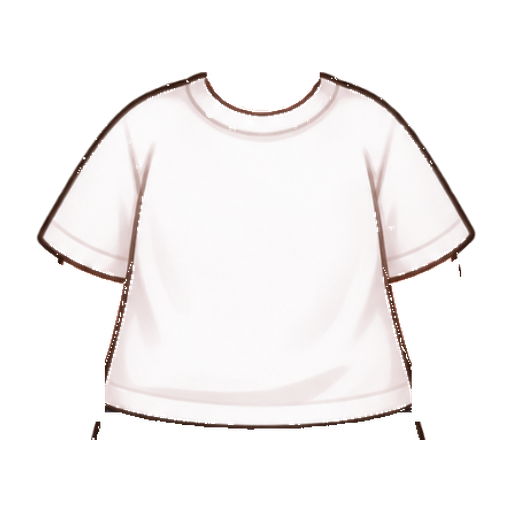
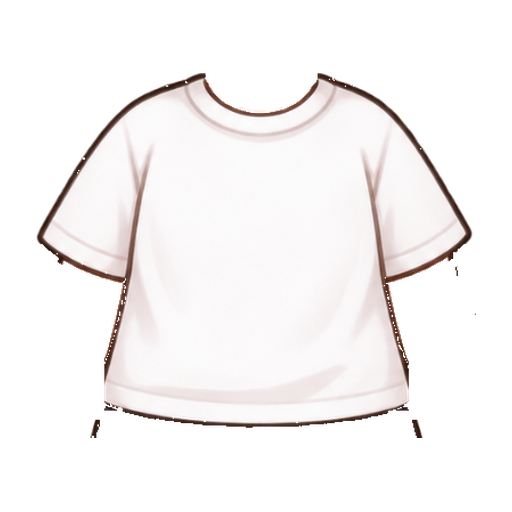
fix: 밑단과 허리 사이 투명 구멍을 막고 팔 가장자리를 승인 텍스처와 같게 한다 [S15P31A207-300]
- 실기기 3차 재확인 회귀: 맨몸 팔·몸통 사이 부스러기를 밑단 높이까지 지워 상의 자르기가 허리 밴드를 테두리로 보고 지웠다
- 서기 상의 자르기 칸에서 허리 밴드(x 100~411, y 296~321, 속옷 허리선)를 뺀다, 부스러기 지우기는 y 280 위에서만
- 맨몸 서기 팔: 반투명 가장자리(알파 240 미만)·승인 피부·소매 아래 팔 안쪽 외곽선은 승인 픽셀 그대로
- 기본 의상 빈칸 채우기: 상의 칸은 맨살 규칙으로만 피부를 빼고 한 점 구멍도 채운다(make_body·produce 변경을 이번에 함께 반영)
- 시험: 기본 의상 서기 몸 실루엣 투명 0, 짧은 상의 3 × 하의 7 × 남녀 허리 밴드 투명 0, 기본 의상 팔 가장자리 승인 대비 차이 0
- [임시:D-성-175]

diff --git a/android/core/avatar/src/test/kotlin/com/a207/runkk/app/core/avatar/OutfitCompositeTest.kt b/android/core/avatar/src/test/kotlin/com/a207/runkk/app/core/avatar/OutfitCompositeTest.kt
@@ -283,6 +283,109 @@ class OutfitCompositeTest {
     }
 
     /** 기본 의상 러닝량 0 합성이 승인 기본 텍스처(서기 PNG, 달리기는 riv 내장)와 같은 픽셀(러닝량과 무관하게 같은 자리). */
+    @Test
+    fun `기본 의상 서기 합성은 승인 기본 텍스처의 몸 실루엣 안(팔·몸통, 소매 아래)에 투명 구멍이 없다`() {
+        val approved = pixels(approvedBytes(OutfitSlot.STAND))
+        val width = OutfitSlot.STAND.width
+        val found = mutableListOf<String>()
+        AvatarGender.entries.forEach { gender ->
+            val visible = uvMask(OutfitSlot.STAND, gender, AvatarOutfit())
+            val composed = compose(OutfitSlot.STAND, gender, AvatarOutfit(), 100)
+            // 소매 아래(y 185)부터 손 위(y 300)까지: 팔 띠·몸통 옆·허리 위. 소매 끝 모서리(y 185 위)와 목은 상의 자르기·머리가 정한다.
+            for (y in 185..300) {
+                for (x in 0 until width) {
+                    val i = y * width + x
+                    if (visible[i] && approved[i] ushr 24 >= 250 &&
+                        composed.getPixel(x, y) ushr 24 < 128
+                    ) {
+                        found += "$gender ($x, $y)"
+                    }
+                }
+            }
+            composed.recycle()
+        }
+        assertEquals(emptyList(), found.take(10), "몸 실루엣 안 투명 픽셀 ${found.size}")
+    }
+
+    @Test
+    fun `짧은 상의 × 모든 하의 서기 합성에서 밑단과 허리 사이 몸통에 투명 구멍이 없다`() {
+        val approved = pixels(approvedBytes(OutfitSlot.STAND))
+        val found = mutableListOf<String>()
+        // 짧은 상의(반팔·민소매): 기본, 라임 싱글렛, 크루 티
+        listOf(0, 1, 2).forEach { top ->
+            OutfitCatalog.LEGACY_KEYS.getValue(OutfitPart.BOTTOM).indices.forEach { bottom ->
+                AvatarGender.entries.forEach { gender ->
+                    val outfit = AvatarOutfit(top = top, bottom = bottom)
+                    val composed = compose(OutfitSlot.STAND, gender, outfit, 100)
+                    val width = OutfitSlot.STAND.width
+                    var holes = 0
+                    // 몸통 열(x 128~383)의 허리 밴드(y 296~321, 상의 밑단과 하의 허리 사이), 승인 기본 텍스처가 불투명한 곳
+                    for (y in 296..321) {
+                        for (x in 128..383) {
+                            if (approved[y * width + x] ushr 24 >= 250 && composed.getPixel(x, y) ushr 24 < 128) holes++
+                        }
+                    }
+                    composed.recycle()
+                    if (holes > 0) found += "top $top bottom $bottom $gender: $holes"
+                }
+            }
+        }
+        assertEquals(emptyList(), found, "밑단과 허리 사이 투명 픽셀")
+    }
+
+    @Test
+    fun `기본 의상 러닝량 0 서기 합성의 팔 가장자리는 승인 기본 텍스처와 알파·색이 같다`() {
+        val approved = pixels(approvedBytes(OutfitSlot.STAND))
+        val composed = compose(OutfitSlot.STAND, AvatarGender.FEMALE, AvatarOutfit(), 0)
+        val width = OutfitSlot.STAND.width
+        val opaque = BooleanArray(approved.size) { approved[it] ushr 24 >= 128 }
+        var edge = 0
+        val differs = mutableListOf<String>()
+        // 팔 띠(소매 밑 y 190~300, 바깥 열 x < 140·x > 372)에서 승인 실루엣 경계 2px 안
+        for (y in 190..300) {
+            for (x in (0 until 140) + (373 until width)) {
+                val i = y * width + x
+                val near = (-2..2).any { dy ->
+                    (-2..2).any { dx ->
+                        opaque[
+                            (y + dy) * width +
+                                (x + dx).coerceIn(0, width - 1)
+                        ] !=
+                            opaque[i]
+                    }
+                }
+                if (!near) continue
+                edge++
+                val a = approved[i]
+                val c = composed.getPixel(x, y)
+                val alpha = abs((a ushr 24) - (c ushr 24))
+                val color = if (a ushr 24 >=
+                    128
+                ) {
+                    listOf(16, 8, 0).sumOf { abs((a shr it and 0xFF) - (c shr it and 0xFF)) }
+                } else {
+                    0
+                }
+                if (alpha > 24 || color > 30) differs += "($x, $y)"
+            }
+        }
+        composed.recycle()
+        assertTrue(edge > 300, "검사한 가장자리 $edge")
+        assertEquals(emptyList(), differs.take(10), "팔 가장자리 차이 ${differs.size}/$edge")
+    }
+
+    private fun approvedBytes(slot: OutfitSlot): ByteArray = if (slot == OutfitSlot.STAND) {
+        File("src/main/res/raw/avatar_legacy_standing_body.png").readBytes()
+    } else {
+        val asset = mapOf(
+            OutfitSlot.RUN_BODY to "side_body_coral",
+            OutfitSlot.RUN_ARM to "continuous_arm",
+            OutfitSlot.RUN_LEG to "side_leg_skin",
+            OutfitSlot.RUN_SHOE to "side_shoe"
+        ).getValue(slot)
+        RivEmbeddedImages.read(File("src/main/res/raw/avatar_run_approved.riv").readBytes()).getValue(asset)
+    }
+
     private fun approvedMask(slot: OutfitSlot, gender: AvatarGender): BooleanArray {
         val bytes = if (slot == OutfitSlot.STAND) {
             File("src/main/res/raw/avatar_legacy_standing_body.png").readBytes()

diff --git a/android/core/avatar/tools/outfit-pipeline/production/make_body.py b/android/core/avatar/tools/outfit-pipeline/production/make_body.py
@@ -79,25 +79,26 @@ def stand(work: Path) -> Image.Image:
     shoulder_rows = (yy >= 150) & (yy < 185) & (((xx >= 140) & (xx < 165)) | ((xx > 347) & (xx <= 372)))
     armpit = (side_rows | shoulder_rows) & tee
     g[gap | armpit] = 0
-    # 팔 칸에서 승인 텍스처가 거의 투명한 곳(팔 외곽선 바깥 안티에일리어싱)은 승인 픽셀 그대로 둔다: 그림 도구 맨몸의 팔 외곽선이 그 자리에
+    # 팔 칸에서 승인 텍스처가 반투명·투명한 곳(팔 외곽선 안티에일리어싱, 알파 240 미만)은 승인 픽셀 그대로 둔다: 그림 도구 맨몸의 팔 외곽선이 그 자리에
     # 부스러기로 남아 러닝량이 높을 때 팔 윤곽이 털처럼 거칠게 보였다(실기기 3차 DV3-8).
-    halo = (yy >= 150) & (yy < 425) & ((xx < 165) | (xx > 347)) & (r[..., 3] < 128)
+    # 손 높이(y 304)부터는 하지 않는다: 팔과 엉덩이 사이를 비우면 상의 자르기가 허리 옆 맨몸을 테두리로 보고 지워 밑단과 허리 사이가
+    # 비었다(실기기 3차 재확인)
+    halo = (yy >= 150) & (yy < 304) & ((xx < 165) | (xx > 347)) & (r[..., 3] < 240)
     g[halo] = r[halo]
-    # 소매 밑 겨드랑이 쪽 팔 안쪽 피부(승인 텍스처에서 흰 반팔티 소매와 몸통 사이에 보이던 곳)도 맨몸에 둔다. 상의 레이어에서는
-    # 맨살을 지우므로(outfit_pipeline.skin) 맨몸이 그 자리를 덮어야 톤이 걸린다.
-    inner = (
-        (yy >= 150)
-        & (yy < 304)
-        & (((xx >= 112) & (xx < 165)) | ((xx > 347) & (xx < 400)))
-        & skin_mask(r)
-        & (r[..., 3] >= 128)
-    )
+    # 팔 칸의 승인 피부(소매 밑 겨드랑이 쪽 팔 안쪽, 흰 반팔티 소매와 몸통 사이에 보이던 곳 포함)는 맨몸에 승인 픽셀 그대로 둔다.
+    # 옷 레이어에서는 맨살을 지우므로(outfit_pipeline.skin) 맨몸이 그 자리를 덮어야 톤이 걸린다.
+    # 팔 안쪽 외곽선(짙은 선)도 승인 픽셀로 둔다: 없으면 팔과 셔츠 사이가 점점이 비었다(실기기 3차 재확인)
+    outline = rgb.max(axis=2) < 120
+    inner = (yy >= 150) & (yy < 304) & ((xx < 165) | (xx > 347)) & (r[..., 3] >= 128) & ~tee & ~shorts
+    # 외곽선은 소매 높이(y 185) 아래만: 그 위 짙은 선은 소매 밑단 선이라 기본 상의 레이어가 그린다(민소매 팔에 선이 남지 않게)
+    inner &= skin_mask(r) | (outline & (yy >= 185))
     g[inner] = r[inner]
-    # 팔과 몸통 사이 띠에 남은 그림 도구의 외곽선·속옷 조각(피부가 아닌 픽셀)도 지운다
-    band = (yy >= 185) & (yy < 304) & (((xx >= 140) & (xx < 165)) | ((xx > 347) & (xx <= 372)))
+    # 팔과 몸통 사이 띠에 남은 그림 도구의 외곽선·속옷 조각(피부가 아닌 픽셀)도 지운다. 밑단 높이(y 280)부터는 두어야 한다: 비우면
+    # 상의 자르기가 허리 밴드를 밑단과 배경 사이 테두리로 보고 지워 밑단과 허리 사이가 비었다(실기기 3차 재확인)
+    band = (yy >= 185) & (yy < 280) & (((xx >= 140) & (xx < 165)) | ((xx > 347) & (xx <= 372)))
     g[band & ~inner & ~skin_mask(g.clip(0, 255).astype(np.uint8))] = 0
     # 팔과 몸통 사이(겨드랑이~허리 옆)에 떨어져 남은 작은 조각도 지운다(맨몸 본체는 한 덩어리다)
-    side = (yy >= 185) & (yy < 304) & (((xx >= 100) & (xx < 165)) | ((xx > 347) & (xx < 412)))
+    side = (yy >= 185) & (yy < 280) & (((xx >= 100) & (xx < 165)) | ((xx > 347) & (xx < 412)))
     alone = (g[..., 3] > 0) & ~drop_specks(g[..., 3] > 0)
     g[side & alone] = 0
     # 허리(y 296~321, 몸통 열): 승인 텍스처의 짙은 회색 허리 밴드를 맨몸 속옷 허리로 둔다. 상의 밑단과 하의 허리 사이가 비어도

diff --git a/android/core/avatar/tools/outfit-pipeline/production/produce.py b/android/core/avatar/tools/outfit-pipeline/production/produce.py
@@ -172,18 +172,17 @@ def fill_base_gaps(work: Path) -> None:
         covered |= array[..., 3] > 0
     differs = np.abs(body_stand[..., :3].astype(int) - ref[..., :3].astype(int)).sum(axis=2) > 12
     gap = (ref[..., 3] > 0) & ~covered & (differs | (body_stand[..., 3] == 0))
-    # 하의 칸의 승인 피부(허벅지)는 옷 레이어에 넣지 않는다(넣으면 러닝량 톤을 받지 않는 밝은 띠가 된다, DV-성-11).
-    # 상의 칸의 피부색 픽셀은 흰 반팔티 소매 안 분홍 그늘이라 옷이다.
+    # 승인 피부는 옷 레이어에 넣지 않는다(넣으면 러닝량 톤을 받지 않는 밝은 피부가 된다: 하의 칸 허벅지 DV-성-11, 상의 칸 소매 밑
+    # 팔 안쪽 DV3-8). 그 피부는 맨몸 바탕이 승인 픽셀로 그린다(make_body). 피부가 아닌 승인 픽셀(소매 밑단 선, 몸통 옆 외곽선)은
+    # 팔 칸이어도 넣는다: 빠지면 기본 의상에서 소매 밑단·옷 옆에 구멍(배경)이 점점이 비쳤다(실기기 3차 재확인).
     from outfit_pipeline.build import _skin_like
+    from outfit_pipeline.skin import skin_mask
 
-    gap &= ~(_skin_like(ref[..., :3]) & (np.array(zones["TOP"]) == 0))
-    yy, xx = np.mgrid[0 : ref.shape[0], 0 : ref.shape[1]]
-    gap &= ~(
-        (yy >= 185) & ((xx < 112) | (xx >= 404))
-    )  # 팔(소매 끝 아래, 밑단 폭 밖)은 맨몸 바탕이 승인 그림이라 채우지 않는다
+    # 상의 칸은 맨살 규칙(skin_mask)으로만 뺀다: 넓은 피부색 판정(_skin_like)은 흰 반팔티의 분홍 회색 그늘도 피부로 봐서 빠지면 구멍이 났다
+    gap &= ~((_skin_like(ref[..., :3]) & (np.array(zones["TOP"]) == 0)) | skin_mask(ref))
     for part, array in arrays.items():
         allowed = np.array(load_mask(MASKS, "female_stand", part)) > 0
-        take = drop_specks(gap & (np.array(zones[part]) > 0) & allowed, 6)  # 떨어진 한두 점은 넣지 않는다
+        take = gap & (np.array(zones[part]) > 0) & allowed  # 한 점짜리 구멍도 채운다
         array[take] = ref[take]
         gap &= ~take
         for gender in spec.GENDERS:

diff --git a/android/core/avatar/tools/outfit-pipeline/outfit_pipeline/build.py b/android/core/avatar/tools/outfit-pipeline/outfit_pipeline/build.py
@@ -352,7 +352,7 @@ def _write_bundle(source: Path, target: Path, masks_dir: Path, asset_key: str, p
 
 
 def cut_area(raw_dir: Path, slot_name: str) -> Image.Image:
-    """상의 자르기 칸([임시:D-성-156], 값 = 띠 종류): 서기는 상의 칸에서 손 칸과 목·가슴 위를 뺀 곳(팔 띠 둘은 따로 값), 달리기 몸통은 목
+    """상의 자르기 칸([임시:D-성-156], 값 = 띠 종류): 서기는 상의 칸에서 손 칸과 목·가슴 위, 허리 밴드를 뺀 곳(팔 띠 둘은 따로 값), 달리기 몸통은 목
     조각을 뺀 전체, 달리기 팔은 전체(소매 끝 아래는 팔 띠)."""
     from outfit_pipeline.masks import stand_zones
 
@@ -362,6 +362,7 @@ def cut_area(raw_dir: Path, slot_name: str) -> Image.Image:
         area = ImageChops.subtract(zones["TOP"], zones["HANDS"])
         area.paste(0, spec.NECK_CHEST)
         area.paste(0, spec.NECK_TOP)
+        area.paste(0, spec.STAND_WAIST)
         array = np.array(area)
         for box, value in ((spec.STAND_LEFT_ARM, spec.CUT_LEFT_ARM), (spec.STAND_RIGHT_ARM, spec.CUT_RIGHT_ARM)):
             x0, y0, x1, y1 = box

diff --git a/android/core/avatar/OUTFIT_SPEC.md b/android/core/avatar/OUTFIT_SPEC.md
@@ -44,7 +44,7 @@ riv 네 파일(`res/raw`, 승인본 SHA 고정, 읽기만)의 아트보드는 80
 | 그 부위만 | 상의 파일에 하의·신발 픽셀 없음(금지 영역은 템플릿의 빨간 빗금) |
 | 피부 | 의상 그림에 피부를 그리지 않는다. 민소매 어깨·반바지 다리는 알파 0으로 두어 맨몸 바탕이 보이게 한다. 피부톤 필터는 맨몸 바탕에만 걸린다 |
 | 겹침 순서 | 맨몸 바탕(피부톤) → 신발 → 하의 → 상의 |
-| 상의 자르기 ([임시:D-성-156]) | 앱이 합성할 때 상의 자르기 칸 안에서 상의 밖(옷으로 둘러싸인 빈 곳은 옷으로 친다)인 맨몸 픽셀 가운데 상의와 배경(맨몸도 상의도 없는 곳) 사이에 낀 얇은 띠를 지운다: 가장 가까운 상의·배경까지 거리 합 ≤ 32px(`RIM_PX` 30 + 2, 텍스처 가장자리 너머도 배경)이고 두 방향이 반대(코사인 < −0.5). 그래서 맨몸 실루엣보다 좁은 상의(실측 최대 약 25px, 후드티 어깨 곡선)도 어깨·몸통·소매 옆 피부 테두리가 옷 밖으로 비치지 않는다. 소매 끝 아래 팔(상의는 위, 배경은 옆)·민소매 팔·목·손은 남는다. 칸: 서기 = 상의 칸 − 손 칸 − 목·가슴 위(x 196~316, y 0~109)·맨 위 목 둘레(x 176~336, y 0~13), 달리기 몸통 = 전체 − 목 조각(x 100~199, y 0~39, 알파 240: 띠 판정 없이 상의 밖을 모두 지운다. 옆모습 몸통은 맨몸이 보일 곳이 없다), 달리기 팔 = 전체. 팔 띠(서기 x 0~144·367~511의 y 185~301, 허리 옆 모서리는 몸통 칸, 달리기 팔의 y 300 아래)는 상의가 그 띠의 맨몸을 60% 넘게 덮을 때(긴소매)만 자른다(반팔·민소매의 팔은 몸통에 붙어 있어도 그대로). 띠를 지운 뒤 남은 부스러기(자르기 칸 안 상의 밖 맨몸을 4방향으로 이은 덩어리 80px 이하, 모든 픽셀이 상의에서 30px 안)도 지운다. 칸 파일 알파(값마다 뜻이 다르다): 128 미만 = 자르지 않음, 255 = 몸통(띠 판정), 200 = 왼팔 띠·160 = 오른팔 띠(값마다 한 띠, 덮인 몫 판정 뒤 띠 판정), 240 = 띠 판정 없이 상의 밖을 모두 지움(달리기 몸통). 덮인 몫은 팔 띠 값만 센다(255·240은 팔 띠가 아니다). 앱 `TopBodyCut`, 파이프라인 `outfit_pipeline/cut.py`(검수 렌더)가 같은 규칙이고, 같은 픽스처(`src/test/resources/topcut`, `tests/make_topcut_fixture.py`)로 두 쪽 결과가 같은지 시험한다(TopBodyCutParityTest, `test_cut_matches_app_fixture`) |
+| 상의 자르기 ([임시:D-성-156]) | 앱이 합성할 때 상의 자르기 칸 안에서 상의 밖(옷으로 둘러싸인 빈 곳은 옷으로 친다)인 맨몸 픽셀 가운데 상의와 배경(맨몸도 상의도 없는 곳) 사이에 낀 얇은 띠를 지운다: 가장 가까운 상의·배경까지 거리 합 ≤ 32px(`RIM_PX` 30 + 2, 텍스처 가장자리 너머도 배경)이고 두 방향이 반대(코사인 < −0.5). 그래서 맨몸 실루엣보다 좁은 상의(실측 최대 약 25px, 후드티 어깨 곡선)도 어깨·몸통·소매 옆 피부 테두리가 옷 밖으로 비치지 않는다. 소매 끝 아래 팔(상의는 위, 배경은 옆)·민소매 팔·목·손은 남는다. 칸: 서기 = 상의 칸 − 손 칸 − 목·가슴 위(x 196~316, y 0~109)·맨 위 목 둘레(x 176~336, y 0~13) − 허리 밴드(x 100~411, y 296~321, 맨몸 바탕의 속옷 허리선이라 피부가 아니다. 자르면 밑단과 허리 사이가 비었다, [임시:D-성-175]), 달리기 몸통 = 전체 − 목 조각(x 100~199, y 0~39, 알파 240: 띠 판정 없이 상의 밖을 모두 지운다. 옆모습 몸통은 맨몸이 보일 곳이 없다), 달리기 팔 = 전체. 팔 띠(서기 x 0~144·367~511의 y 185~301, 허리 옆 모서리는 몸통 칸, 달리기 팔의 y 300 아래)는 상의가 그 띠의 맨몸을 60% 넘게 덮을 때(긴소매)만 자른다(반팔·민소매의 팔은 몸통에 붙어 있어도 그대로). 띠를 지운 뒤 남은 부스러기(자르기 칸 안 상의 밖 맨몸을 4방향으로 이은 덩어리 80px 이하, 모든 픽셀이 상의에서 30px 안)도 지운다. 칸 파일 알파(값마다 뜻이 다르다): 128 미만 = 자르지 않음, 255 = 몸통(띠 판정), 200 = 왼팔 띠·160 = 오른팔 띠(값마다 한 띠, 덮인 몫 판정 뒤 띠 판정), 240 = 띠 판정 없이 상의 밖을 모두 지움(달리기 몸통). 덮인 몫은 팔 띠 값만 센다(255·240은 팔 띠가 아니다). 앱 `TopBodyCut`, 파이프라인 `outfit_pipeline/cut.py`(검수 렌더)가 같은 규칙이고, 같은 픽스처(`src/test/resources/topcut`, `tests/make_topcut_fixture.py`)로 두 쪽 결과가 같은지 시험한다(TopBodyCutParityTest, `test_cut_matches_app_fixture`) |
 | 신발 기준점 | 정면 발 칸 (96,627)-(257,768)·(260,627)-(421,768), 양말 위 끝은 y 616 이하로 올리지 않는다 |
 | 하의 길이 | 달리기 다리(`run_leg`)의 하의는 기본 반바지 밑단(y 약 250)보다 짧게 끝나지 않는다(맨몸 허벅지의 이음선이 그 위에 있다) |
 | 품질 | 코랄 집업 후드(`top_cherry_vest`) 기준: 외곽선 2px(옷 기본색의 어두운 톤, 검정 아님), 음영 3단, 주름은 관절·지퍼·밑단, 광택·질감 무늬 없음 |

diff --git a/docs/sw/pending/feature-S15P31A207-300-outfit-assets.md b/docs/sw/pending/feature-S15P31A207-300-outfit-assets.md
@@ -24,6 +24,7 @@
 | [임시:D-성-170] | 결정 | 로딩 표시: 페이드 중에 다시 준비 전으로 돌아가면 100ms를 기다리지 않고 바로 불투명하게 되돌리고, 페이드가 끝났을 때만 거둔다. 그림이 보이면(onReady) 앞선 실패 표시를 푼다 | [임시:D-성-106] |
 | [임시:D-성-171] | 결정 | 제작 도구: `production/codex.sh`는 Codex가 실패하면 codex.log에 `failed <이름>: exit <값>`을 적고 그 값으로 끝난다. 검수 렌더는 `--out` 안의 작업 폴더만 지운다. 묶음 빌드는 임시 폴더에 다 쓴 뒤 바꿔 넣어 중간 실패에도 이전 묶음이 남는다. 시험 `tests/test_production.py` | `OUTFIT_SPEC.md` 6절 |
 | [임시:D-성-174] | 결정 | (실기기 3차 DV3-8) 옷 레이어에는 맨살을 두지 않는다. 피부는 맨몸 바탕에서만 와 러닝량 톤이 걸린다. 규칙: 밝은 피부 색조 픽셀 덩어리가 옷의 빈 곳에 닿으면 「드러난 맨살」로 보고 `build`가 지운다(천 안에 갇힌 피부색 무늬는 남긴다). 검사 9번과 앱 시험(옷 레이어 맨살 0, 러닝량 100 합성의 밝은 맨살 0)을 둔다. 기존 묶음 옷 레이어 10파일(base_top 서기 겨드랑이 쪽 팔 안쪽·달리기 팔, 긴소매 넷의 소매 끝 손목, finisher 달리기 팔, cherry_vest 목 V·달리기 목, 슬립온·라임 러너 발목)과 상점 그림 8장을 다시 만들었다. 지울 때는 앱 디코더 반올림 차이를 덮게 경계를 2만큼 넓힌다. 기본 의상 빈칸 채우기(`produce.fill_base_gaps`)는 승인 피부를 옷 레이어에 넣지 않는다(소매 밑단 선 같은 옷 픽셀만). 맨몸 바탕 서기 팔은 승인 텍스처를 따른다: 팔 칸의 거의 투명한 가장자리는 승인 픽셀 그대로(그림 도구 외곽선 부스러기 제거), 소매 밑 팔 안쪽 피부는 맨몸에 두고, 팔 복사는 소매 밑단 선 아래부터, 어깨 높이(y 185 위)는 몸통 옆 띠만 비운다(민소매 어깨 구멍). 상의 자르기 시험은 칸 밖 맨몸(손·목)과 이어진 덩어리(손목)를 테두리로 보지 않는다 | 05-30 5.3 「맨몸 바탕」·5.5, `OUTFIT_SPEC.md` 6절 9번 |
+| [임시:D-성-175] | 결정 | (실기기 3차 재확인) 서기 상의 자르기 칸에서 허리 밴드(x 100~411, y 296~321)를 뺀다. 맨몸 바탕의 그 띠는 승인 기본 텍스처의 속옷 허리선(피부 아님)이고, 자르면 상의 밑단과 하의 허리 사이가 배경으로 비었다. 맨몸 바탕 서기 팔은 승인 텍스처와 같게 맞춘다: 팔 칸(y 150~303)의 반투명·투명 가장자리(알파 240 미만)와 승인 피부, 소매 높이 아래 팔 안쪽 외곽선은 승인 픽셀 그대로, 팔과 몸통 사이 부스러기 지우기는 밑단 높이(y 280) 위에서만 한다. 기본 의상 빈칸 채우기는 상의 칸에서 맨살 규칙으로만 피부를 빼고 한 점 구멍도 채운다. 시험: 기본 의상 서기 몸 실루엣(소매 아래~손 위) 투명 0, 짧은 상의 3 × 하의 7 × 남녀 허리 밴드 투명 0, 기본 의상 러닝량 0 팔 가장자리 승인 대비 차이 0 | 05-30 5.3 「맨몸 바탕」·「상의 자르기」, `OUTFIT_SPEC.md` 3절 |
 
 
 ## 고친 곳
